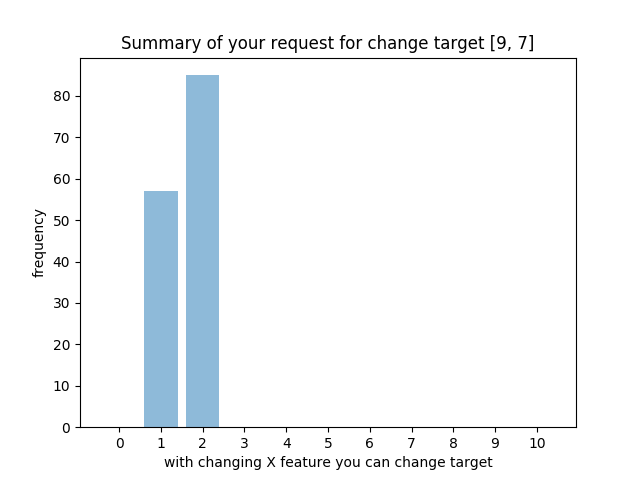
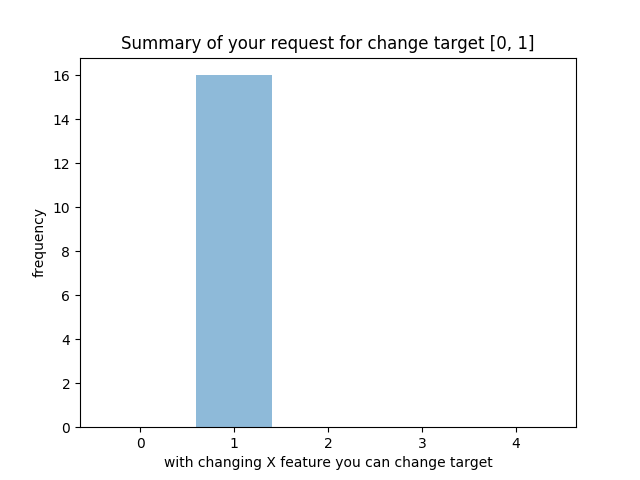
Change_Uncertainty_Rankfeatures

diff --git a/accuracy_drop_proj/user_interface_accuracy_drop.py b/accuracy_drop_proj/user_interface_accuracy_drop.py
@@ -9,6 +9,8 @@ from accuracy_drop_proj.strategies.change_most_important_feature.change_most_imp
 from accuracy_drop_proj.strategies.change_combination.change_combination import Change_Combination
 from accuracy_drop_proj.strategies.change_combination_min.change_combination_min import Change_Combination_Min
 from accuracy_drop_proj.strategies.change_combination_feature_min.change_combination_feature_min import Change_Combination_Feature_Min
+from accuracy_drop_proj.strategies.change_ranked_feature_informationgain.change_ranked_feature_informationgain import Change_Ranked_Feature_Informationgain
+from accuracy_drop_proj.strategies.change_uncertaint_rankfeatures.change_uncertainty_rankfeatures import Change_Uncertainty_Rankfeatures
 from sklearn.svm import SVC
 from sklearn.naive_bayes import MultinomialNB
 from sklearn.metrics import confusion_matrix
@@ -29,40 +31,43 @@ x_train, x_test, y_train, y_test = loader.load()
 
 #----------------------MNB-------------------------------------
 # print("train MNB")
-# mnb = MultinomialNB()
-# mnb.fit(x_train,y_train)
-# print('Accuracy of MNB classifier on test set: {:.2f}'.format(mnb.score(x_test, y_test)))
+# model = MultinomialNB()
+# model.fit(x_train,y_train)
+# print('Accuracy of MNB classifier on test set: {:.2f}'.format(model.score(x_test, y_test)))
 #----------------------SVM--------------------------------------
+
 print("train SVM")
-svm = SVC()
-svm.fit(x_train, y_train)
-print('Accuracy of SVM classifier on test set: {:.2f}'.format(svm.score(x_test, y_test)))
+model = SVC(probability=True)
+model.fit(x_train, y_train)
+print('Accuracy of SVM classifier on test set: {:.2f}'.format(model.score(x_test, y_test)))
 
 #--------------------choose your method--------------------------------------------
 
 # mymethod = Change_Feature_One_By_One() #BUG
 # mymethod= Change_Feature_randomly() #BUG
-mymethod=Change_Most_Important_Feature()
+# mymethod=Change_Most_Important_Feature()
 # mymethod= Change_Combination()
 # mymethod =Change_Combination_Min()
 # mymethod=Change_Combination_Feature_Min()
-
+# mymethod = Change_Ranked_Feature_Informationgain()
+mymethod = Change_Uncertainty_Rankfeatures()
 start = time.time()
 
 change_plan={"key":[[9,7],[8,7],[10,7]],"number":[140,40,28]}
+# change_plan={"key":[[0,1],[2,1]],"number":[3,3]}
 # change_plan={"key":[[0, 1], [0, 2], [0, 3], [0, 4], [0, 5], [0, 6], [0, 7], [0, 8], [0, 9], [1, 0], [1, 2], [1, 3], [1, 4], [1, 5], [1, 6], [1, 7], [1, 8], [1, 9], [2, 0], [2, 1], [2, 3], [2, 4], [2, 5], [2, 6], [2, 7], [2, 8], [2, 9], [3, 0], [3, 1], [3, 2], [3, 4], [3, 5], [3, 6], [3, 7], [3, 8], [3, 9], [4, 0], [4, 1], [4, 2], [4, 3], [4, 5], [4, 6], [4, 7], [4, 8], [4, 9], [5, 0], [5, 1], [5, 2], [5, 3], [5, 4], [5, 6], [5, 7], [5, 8], [5, 9], [6, 0], [6, 1], [6, 2], [6, 3], [6, 4], [6, 5], [6, 7], [6, 8], [6, 9], [7, 0], [7, 1], [7, 2], [7, 3], [7, 4], [7, 5], [7, 6], [7, 8], [7, 9], [8, 0], [8, 1], [8, 2], [8, 3], [8, 4], [8, 5], [8, 6], [8, 7], [8, 9], [9, 0], [9, 1], [9, 2], [9, 3], [9, 4], [9, 5], [9, 6], [9, 7], [9, 8]],"number":[10, 10, 10, 10, 10, 10, 10, 10, 10, 10, 10, 10, 10, 10, 10, 10, 10, 10, 10, 10, 10, 10, 10, 10, 10, 10, 10, 10, 10, 10, 10, 10, 10, 10, 10, 10, 10, 10, 10, 10, 10, 10, 10, 10, 10, 10, 10, 10, 10, 10, 10, 10, 10, 10, 10, 10, 10, 10, 10, 10, 10, 10, 10, 10, 10, 10, 10, 10, 10, 10, 10, 10, 10, 10, 10, 10, 10, 10, 10, 10, 10, 10, 10, 10, 10, 10, 10, 10, 10, 10]}
-out=mymethod.change(x_test,y_test,10,svm,change_plan)
+out=mymethod.change(x_test,y_test,10,model,change_plan)
 
 end = time.time()
 
 #--------------------------- evaluation ---------------------------------------------
 
-y_pred=svm.predict(out)
-
-print("your execuation time is {} (s)".format(end - start))
-print ("\n Accuracy is: {} ".format(accuracy_score(y_test, y_pred)))
-print('\n Accuracy was: {:.2f}'.format(svm.score(x_test, y_test)))
-
+# y_pred=model.predict(out)
+#
+# print("your execuation time is {} (s)".format(end - start))
+# print ("\n Accuracy is: {} ".format(accuracy_score(y_test, y_pred)))
+# print('\n Accuracy was: {:.2f}'.format(model.score(x_test, y_test)))
+#
 
 #--------------------------------------------
 # save the output

diff --git a/accuracy_drop_proj/strategies/change_uncertaint_rankfeatures/change_uncertainty_rankfeatures.py b/accuracy_drop_proj/strategies/change_uncertaint_rankfeatures/change_uncertainty_rankfeatures.py
@@ -1,9 +1,11 @@
+import heapq
+import numpy as np
 from sklearn.feature_selection import SelectKBest, f_classif
 from sklearn.feature_selection import chi2
 from sklearn.ensemble import ExtraTreesClassifier
 from accuracy_drop_proj.strategies.change_combination.change_combination import Change_Combination
-import numpy as np
-class Change_Ranked_Feature_Informationgain(object):
+
+class Change_Uncertainty_Rankfeatures(object):
     def __init__(self):
         pass
 
@@ -17,7 +19,8 @@ class Change_Ranked_Feature_Informationgain(object):
         change_done = False
         x_train_changed = np.copy(x_train)
 
-        #find the order of the feature according to information gain
+        #---------------------find the order of the feature according to information gain-----------------------
+
         model = ExtraTreesClassifier()
         model.fit(x_train, y_train)
 
@@ -42,12 +45,42 @@ class Change_Ranked_Feature_Informationgain(object):
         all_subset = sorted(ranked_information_dic.items(), key=lambda item: len(item[0]) * 1000 - item[1], reverse=False)
 
 
+        #---------------------------finding the order of the row accordin to uncertainity-------------------------
 
-        #changing
+        probability = mnb.predict_proba(x_train)
+
+
+        uncertainty={}
+        for index,roww in enumerate(probability):
+            largest_val =heapq.nlargest(2, roww)
+            uncertainty.update({index:1-(np.abs(np.subtract(largest_val[0],largest_val[1])))})
+            largest_val=[]
+            # print(index,row,np.subtract(largest_val[0],largest_val[1]))
+
+        print(len(probability))
+        print(len(uncertainty))
+        #sort the uncertainty
+        uncertainty_sorted=sorted(uncertainty.items(), key=lambda x:x[1],reverse=True)
+
+
+        #---------------------------------------------changing--------------------------------------------
+
         for i in range(len(change_plan["key"])):
             occurred_change = 0
+            #sort the row according to uncertainty
 
-            indices = [t for t, x in enumerate(y_train) if x == change_plan["key"][i][0]]
+            indices=[]
+
+            for key_dic in uncertainty_sorted:
+                if y_train[key_dic[0]] == change_plan["key"][i][0]:
+                    indices.append(key_dic[0])
+
+
+
+            #this is normal indices
+            # indices_2 = [t for t, x in enumerate(y_train) if x == change_plan["key"][i][0]]
+
+
             print("{} rows have target {} \n".format(len(indices), change_plan["key"][i][0]))
 
             for p in range(len(indices)):
@@ -65,7 +98,6 @@ class Change_Ranked_Feature_Informationgain(object):
                             if (occurred_change == change_plan["number"][i]):
                                 #                         print("part of your request has been done :))))")
                                 break
-
 
                             print("try to change with change index {}".format(list(subset[0])))
                             x_train_changed[indices[p]][list(subset[0])] = 0
@@ -86,10 +118,57 @@ class Change_Ranked_Feature_Informationgain(object):
                             else:
                                 x_train_changed[indices[p]] = np.copy(x_train[indices[p]])
 
-
-
-
         if (all_changed <= number_change_requested):
             print("your request doesn't complete! please change your plan")
         return np.copy(x_train_changed)
+
+
+
+
+
+
+
+
+
+
+
+
+
+
+
+
+
+
+
+
+
+
+
+
+
+
+
+
+
+
+
+
+
+
+
+
+
+
+
+
+
+
+
+
+
+
+
+
+
+
 

diff --git a/accuracy_drop_proj/test_elastic.py b/accuracy_drop_proj/test_elastic.py
@@ -1,0 +1,45 @@
+# from elasticsearch import helpers, Elasticsearch
+# import csv
+#
+# es = Elasticsearch([{'host': 'localhost', 'port': 9201}])
+#
+# with open('./datasets/abalone.data') as f:
+#     reader = csv.DictReader(f)
+#     helpers.bulk(es, reader, index='my-index', doc_type='my-type')
+#--------------------------------------------------------------------
+import matplotlib.pyplot as plt
+import numpy as np
+
+from sklearn.metrics import accuracy_score
+from sklearn.linear_model import LogisticRegression
+from sklearn.svm import SVC
+from sklearn.gaussian_process import GaussianProcessClassifier
+from sklearn.gaussian_process.kernels import RBF
+from sklearn import datasets
+
+# iris = datasets.load_iris()
+# X = iris.data  # we only take the first two features for visualization
+# y = iris.target
+# print(X[48:52])
+# print(y[48:52])
+# model= SVC(probability=True)
+# model.fit(X,y)
+#
+# y_pred = model.predict(X)
+#
+# print(accuracy_score(y,y_pred))
+# probability = model.predict_proba(X[48:52])
+#
+# print(probability)
+
+
+
+import numpy as np
+
+
+x = {1:2}
+print (x)
+
+
+x.update({1:5})
+print (x)

diff --git a/accuracy_drop_proj/utilities/load_dataset/abalone_loader.py b/accuracy_drop_proj/utilities/load_dataset/abalone_loader.py
@@ -11,7 +11,7 @@ class Abalone_loader(object):
     def load(self):
         column_names = ["sex", "length", "diameter", "height", "whole weight",
                         "shucked weight", "viscera weight", "shell weight", "rings"]
-        data = pd.read_csv("./datasets/abalone.data", names=column_names)
+        data = pd.read_csv("./datasets/abalone2.data", names=column_names)
         # print("Number of samples: %d" % len(data))
 
         # for more complicated cases use sklearn.feature_extraction.DictVectorizer
